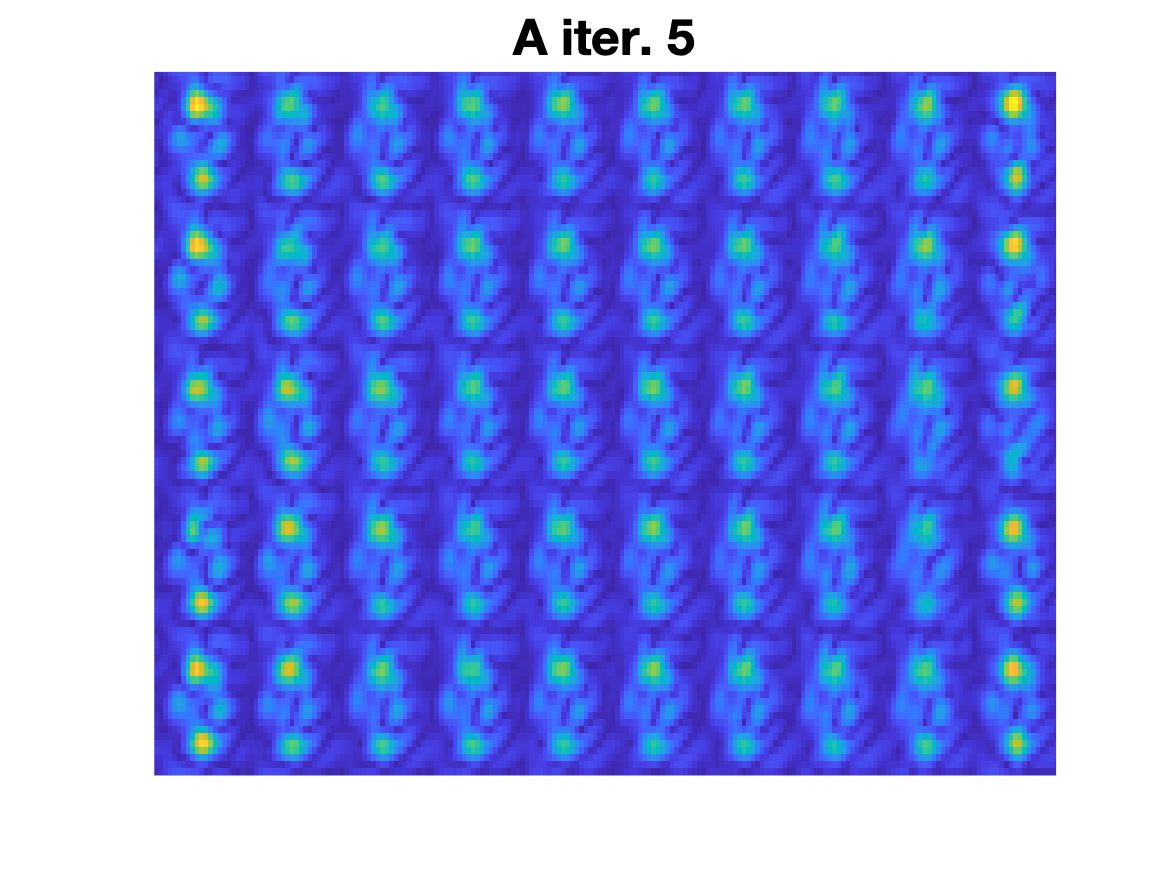
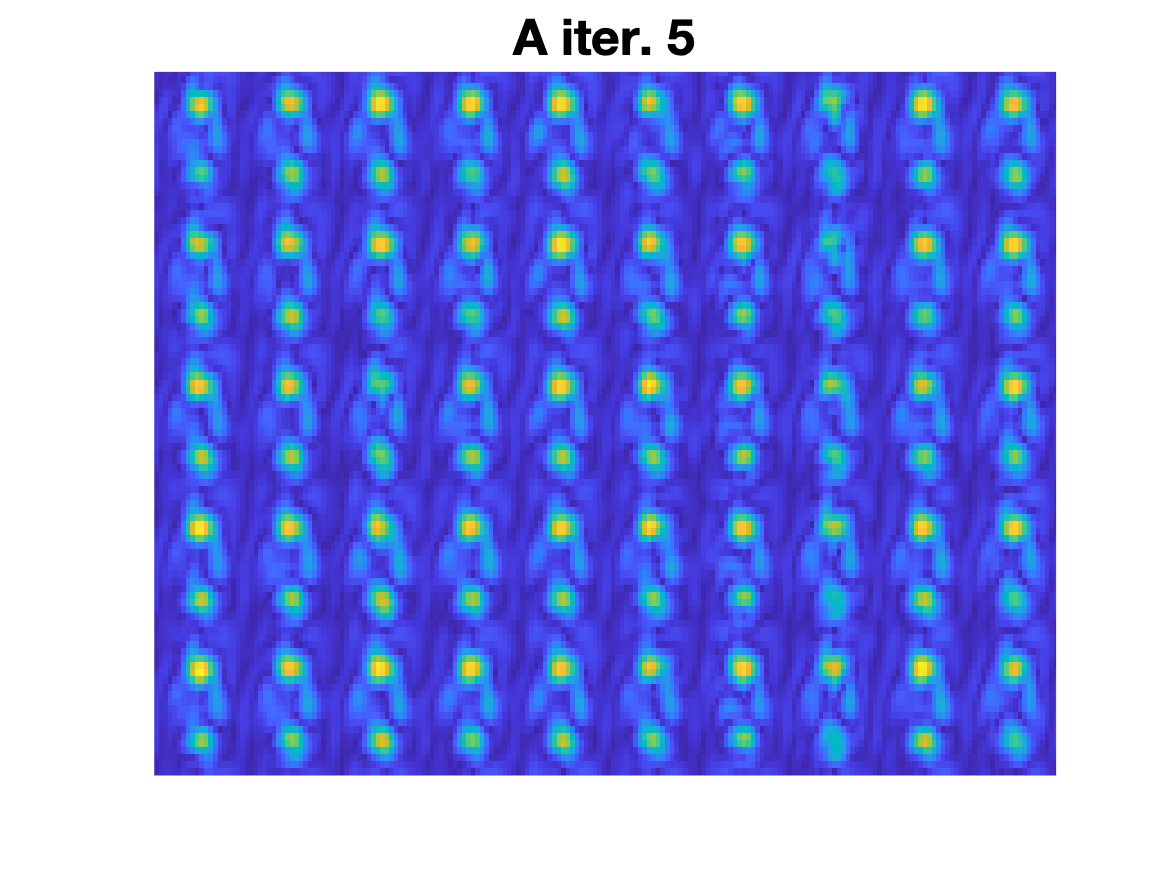
Made some changes and new imgs

Changed region(s): [[0.1234, 0.0617, 0.9254, 0.8949]]

diff --git a/gerchberg_practice.m b/gerchberg_practice.m
@@ -1,13 +1,17 @@
 % Practicing Gerchberg-Saxton algorithm for determining phases from
 % phase-less, intensity-only "nearfield" or source and "farfield" or target images
+clear;
 
-fileloc = 'gs-practice3';
+%% Modify below
+fileloc = 'gs-practice-test2_rng2';
+save_iteration_imgs = false;
+%%%
 
 if ~exist(fileloc, 'dir')
    mkdir(fileloc) 
 end
 
-save_iteration_imgs = false;
+
 
 % First, generate our nearfield image using Matlab's built-in peaks
 % function. Also, multiply by some complex phases ts
@@ -47,8 +51,11 @@ save_imgs(src_abs, [fileloc, '/src_abs_nf'], 'Abs(source)');
 %% Gerchberg-Saxton algorithm, following: 
 % https://en.wikipedia.org/wiki/Gerchberg%E2%80%93Saxton_algorithm
 
-%Start by taking the inverse FT of our phase-less target image
-A = ifft2(trg_abs);
+%Start by taking abs(src) (what we measure) and multiplying by
+%a random phase
+rng(1); %seed the rng for reproducibility
+randphase = (rand(100,200)-0.5)*2*pi;
+A = exp(i*randphase);
 save_imgs(A, [fileloc, '/A_iter', num2str(1)],['A iter. ', num2str(1)]);
 
 %Save phase map at step 1
@@ -57,7 +64,7 @@ save_imgs(angle(A), [fileloc, '/src_angle_1'], ...
 
 prev_abs = abs(A)+100;
 k = 1;
-while sum(sum(abs(abs(A) - prev_abs))) > 1e-2
+while sum(sum(abs(abs(A) - prev_abs))) > 1e-7
     prev_abs = abs(A);
     
     B = abs(src_abs).*exp(i*angle(A));
@@ -93,6 +100,11 @@ save_imgs(A, [fileloc, '/A_iter', num2str(k)],['A iter. ', num2str(k)]);
 save_imgs(angle(A), [fileloc, '/src_angle_', num2str(k)],...
     ['Arg(A) (Radians) iter. ', num2str(k)], 'jet');
 
+%Try adding a constant phase to the phase map
+save_imgs(wrap_phase(angle(A), pi), [fileloc, '/src_angle_pluspi', num2str(k)],...
+    ['Arg(A) + \pi (Radians) iter. ', num2str(k)], 'jet');
+
+
 
 
 function [] = save_imgs(data, savepath, ttl, cmap)
@@ -104,8 +116,7 @@ function [] = save_imgs(data, savepath, ttl, cmap)
         c = colorbar;
         c.FontSize = 20;
         imagesc(data, [-pi, pi]);
-        c.XLim = [-pi, pi];
-        c.YLim = [-pi, pi];
+        c.Limits = [-pi, pi];
     else
          imagesc(abs(data)/max(max(abs(data))));
     end
@@ -128,3 +139,11 @@ function [] = save_imgs(data, savepath, ttl, cmap)
 end
 
 
+function arr = wrap_phase(dat, ph) 
+%Takes an array of phases between [-pi, pi] dat. Add or subtract some phase
+%ph to the entire array. Roll the phase for non-thresholded values (values
+%between [-pi and pi]. (thresholded values are saved as -100) 
+    mask = dat > -99;
+    arr = mod(dat + pi + ph, 2*pi) - pi;
+    arr = arr .* mask + ~mask.*-100;
+end
